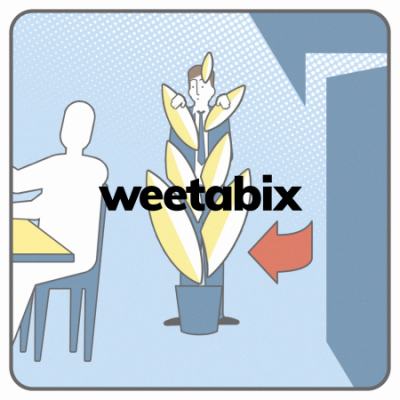
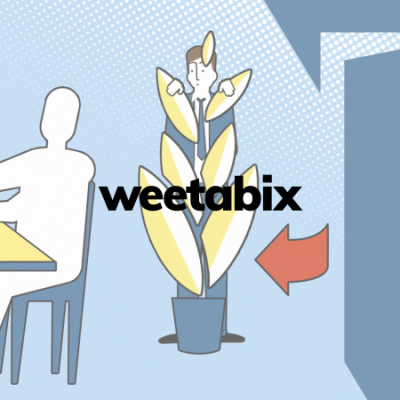
Add hover thumb to the resource object. New images.

diff --git a/resources/views/pages/home.blade.php b/resources/views/pages/home.blade.php
@@ -11,11 +11,13 @@
                     <div class="gallery-item" onclick="document.location='{{url($resources[$i]->type .'/' .
                         $resources[$i]->id .'')}}';">
                         <img id="{!! $resources[$i]->id !!}" class="work-image col-xs-12 col-sm-6 col-md-6 col-lg-4"
-                             onmouseover="hoverImage(this);"
-                             onmouseout="unHoverImage(this);"
+                             onmouseover="this.src='{!! url('img/thumbs/'.$resources[$i]->hover) !!}'"
+                             onmouseout="this.src='{!! url('img/thumbs/'.$resources[$i]->thumb) !!}'"
                              src="{!! url('img/thumbs/'.$resources[$i]->thumb) !!}" title="" alt="{!!
                              $resources[$i]->name !!}">
                     </div>
+                    {{-- Preload image --}}
+                    <style>#preload-{!! $resources[$i]->id !!} { background: url({!! url('img/thumbs/'.$resources[$i]->hover) !!}) no-repeat -9999px -9999px; }</style>
                 @endfor
             </div>
         </div>

diff --git a/app/Http/Controllers/HomeController.php b/app/Http/Controllers/HomeController.php
@@ -28,9 +28,14 @@ class HomeController extends Controller
 			)
 		)->limit(80)->get();
 
-		$first = null;
+		// Derive the hover thumbnail image and add it to the object
+		foreach ($resources as &$resource) {
+			$resource->hover = str_replace('th.jpg', 'hv.jpg', $resource->thumb);
+		}
+
 		// Make sure we have a factor of twelve entries, cloning the first one if not
 		$count = $resources->count();
+		$first = null;
 		$useImage = 0;
 		while (($count % 3) !== 0) {
 			$use = clone($resources->get($useImage));

diff --git a/resources/views/partials/header.blade.php b/resources/views/partials/header.blade.php
@@ -126,15 +126,4 @@
         }
     };
 
-    // Hover image
-    var hoverImage = function (elem) {
-        img = elem.src.replace("_th.jpg", "_hv.png");
-        elem.src = img;
-    };
-
-    var unHoverImage = function (elem) {
-        img = elem.src.replace("_hv.png", "_th.jpg");
-        elem.src = img;
-    };
-
 </script>
